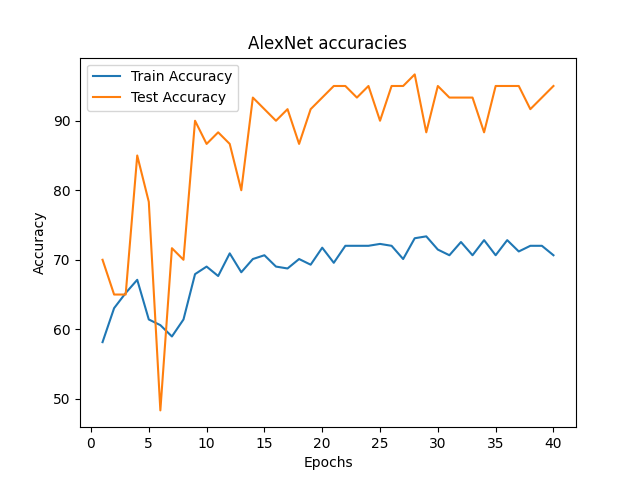
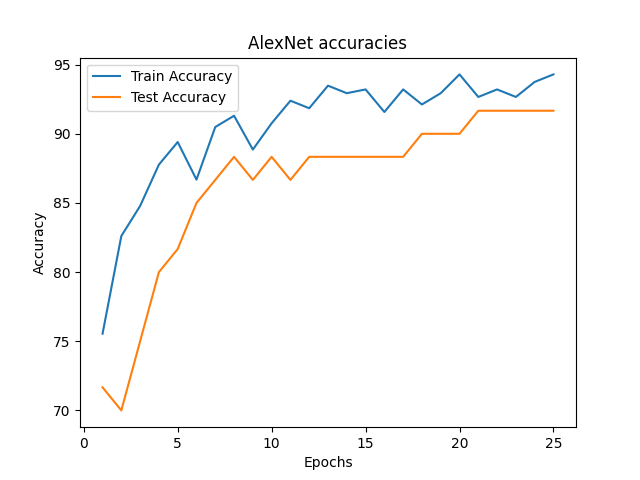
update

diff --git a/src/train.py b/src/train.py
@@ -6,8 +6,10 @@ from torchvision.datasets import ImageFolder
 from torch.utils.data import random_split
 from torch.utils.data import Dataset, ConcatDataset, DataLoader
 from torch import load
+from torch import zeros
 import matplotlib.pyplot as plt
 from alexnet_pretrained import AlexNet
+
 from sklearn.metrics import confusion_matrix, ConfusionMatrixDisplay
 
 # Set seeds
@@ -22,15 +24,17 @@ class CustomDataset(Dataset):
 
     def __getitem__(self, index):
         x, y = self.dataset[index]
+        y_ = zeros(2)
+        y_[y] = 1
         if self.transform:
             x = self.transform(x)
-        return x, y
+        return x, y_
 
     def __len__(self):
         return len(self.dataset)
     
 def data_augmentation(subset, transforms):
-    datasets = [subset]
+    datasets = [CustomDataset(subset)]
 
     for transform in transforms:
         datasets.append(CustomDataset(subset, transform))
@@ -46,23 +50,26 @@ def plot_img(image, label=None):
         plt.title(f'Image in Tensor format | Class: {label}')
     plt.show()
 
-def dist(datasets, names, classes):
-    for dataset, name in zip(datasets, names):
-        labels = [label for _, label in dataset]
+def dist(datasets_13, names_13, classes_13):
+    for dataset_13, name_13 in zip(datasets_13, names_13):
 
-        print(name)
-        print(f"\tClass: {classes[0]} | Count: {labels.count(0)}")
-        print(f"\tClass: {classes[1]} | Count: {labels.count(1)}")
+        labels_13 = []
+        for _, label_13 in dataset_13:
+            labels_13.append(label_13.argmax(dim=0).item())
+
+        print(name_13)
+        print(f"\tClass: {classes_13[0]} | Count: {labels_13.count(0)}")
+        print(f"\tClass: {classes_13[1]} | Count: {labels_13.count(1)}")
 
 def score(model):
-    y_pred = []
-    y_true = []
-    for image, label in test_dataset:
-        pred = model.predict(image)
-        y_pred.append(pred)
-        y_true.append(label)
+    y_pred_15 = []
+    y_true_15 = []
+    for image_15, label_15 in test_dataset:
+        pred_15 = model.predict(image_15)
+        y_pred_15.append(pred_15)
+        y_true_15.append(label_15.argmax(dim=0).item())
 
-    cm = confusion_matrix(y_true=y_true, y_pred=y_pred, labels=[0,1])
+    cm = confusion_matrix(y_true=y_pred_15, y_pred=y_true_15)
     disp = ConfusionMatrixDisplay(confusion_matrix=cm,
                                     display_labels=dataset.classes)
 
@@ -73,7 +80,7 @@ def score(model):
 DATA_ROOT = 'src/data/harvard/'
 
 BATCH_SIZE = 64
-EPOCHS = 40
+EPOCHS = 25
 LR = 1e-3
 
 dataset = ImageFolder(root=DATA_ROOT, transform=ToTensor())
@@ -95,9 +102,9 @@ test_loader = DataLoader(test_dataset,
                         batch_size=BATCH_SIZE,
                         shuffle=False)
 
+dist([train_dataset, test_dataset], ['Train', 'Test'], dataset.classes)
+
 model = AlexNet()
 model.fit(train_loader=train_loader, eval_loader=test_loader, epochs=EPOCHS, lr=LR, debug=True)
 
 score(model)
-
-dist([train_dataset, test_dataset], ['Train', 'Test'], dataset.classes)

diff --git a/src/alexnet_pretrained.py b/src/alexnet_pretrained.py
@@ -2,7 +2,7 @@ from torch import device
 from torch import cuda
 from torch.nn import Module
 from torchvision.models import alexnet, AlexNet_Weights
-from torch.nn import Linear, BCELoss
+from torch.nn import Linear, BCEWithLogitsLoss
 from torch.optim import SGD
 from torch.nn.functional import softmax
 from torch import no_grad
@@ -36,7 +36,7 @@ class AlexNet(Module):
 
     def fit(self, train_loader, eval_loader=None, epochs=10, lr=1e-3, file_path='src/models/best_model.pt', debug=False):
         optimizer = SGD(self.parameters(), lr=lr)
-        criterion = BCELoss()
+        criterion = BCEWithLogitsLoss()
 
         max_acc = 0.0
         train_accuracies = []
@@ -54,14 +54,18 @@ class AlexNet(Module):
 
                 optimizer.zero_grad()
 
-                # TODO: Verificar se está correto
                 outputs = self.foward(inputs)
-                outputs_ = softmax(outputs, dim=1).max(dim=1).values
-                loss = criterion(outputs_, labels)
+                # print(outputs.shape)
+                # print(labels.shape)
+                loss = criterion(outputs, labels)
 
-                preds = softmax(outputs, dim=1).max(dim=1).indices
+                y_pred = softmax(outputs, dim=1).max(dim=1).indices
+                y_true = labels.argmax(dim=1)
+                # print(y_pred)
+                # print(y_true)
+                # print()
                 n_total += len(inputs)
-                n_corrects += (preds == labels).sum().item()
+                n_corrects += (y_pred == y_true).sum().item()
 
                 # backward
                 loss.backward()
@@ -95,22 +99,24 @@ class AlexNet(Module):
     def validate(self, loader):
         self.eval()
 
-        n_corrects = 0
-        n_total = 0
+        n_corrects_123 = 0
+        n_total_123 = 0
 
         with no_grad():
 
-            for inputs, labels in loader:
-                inputs = inputs.to(self._DEVICE, dtype=float)
-                labels = labels.to(self._DEVICE, dtype=float)
+            for inputs_123, labels_123 in loader:
+                inputs_123 = inputs_123.to(self._DEVICE, dtype=float)
+                labels_123 = labels_123.to(self._DEVICE, dtype=float)
 
-                outputs = self.foward(inputs)
-                preds = softmax(outputs, dim=1).max(dim=1).indices
 
-                n_total += len(inputs)
-                n_corrects += (preds == labels).sum().item()
+                outputs_123 = self.foward(inputs_123)
+                y_pred_123 = softmax(outputs_123, dim=1).max(dim=1).indices
+                y_true_123 = labels_123.argmax(dim=1)
+
+                n_total_123 += len(inputs_123)
+                n_corrects_123 += (y_pred_123 == y_true_123).sum().item()
             
-            return 100 * (n_corrects/n_total)
+            return 100 * (n_corrects_123/n_total_123)
     
     def predict(self, image):
         self.eval()
